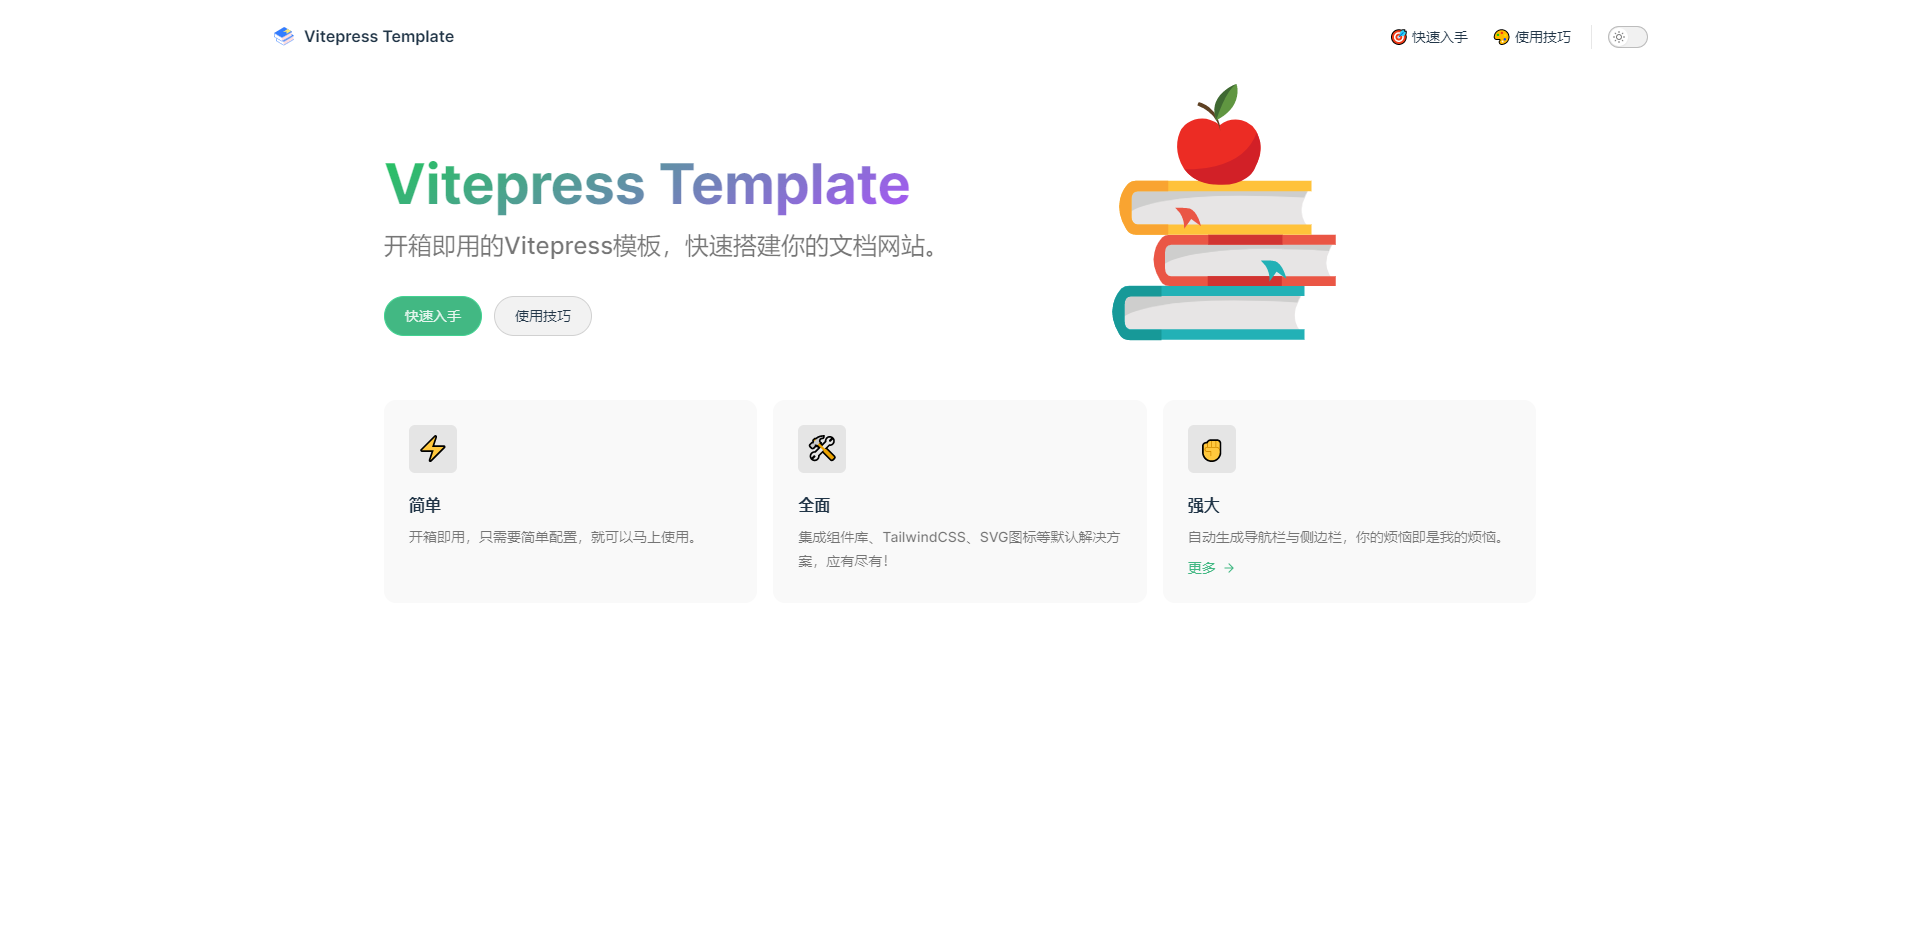
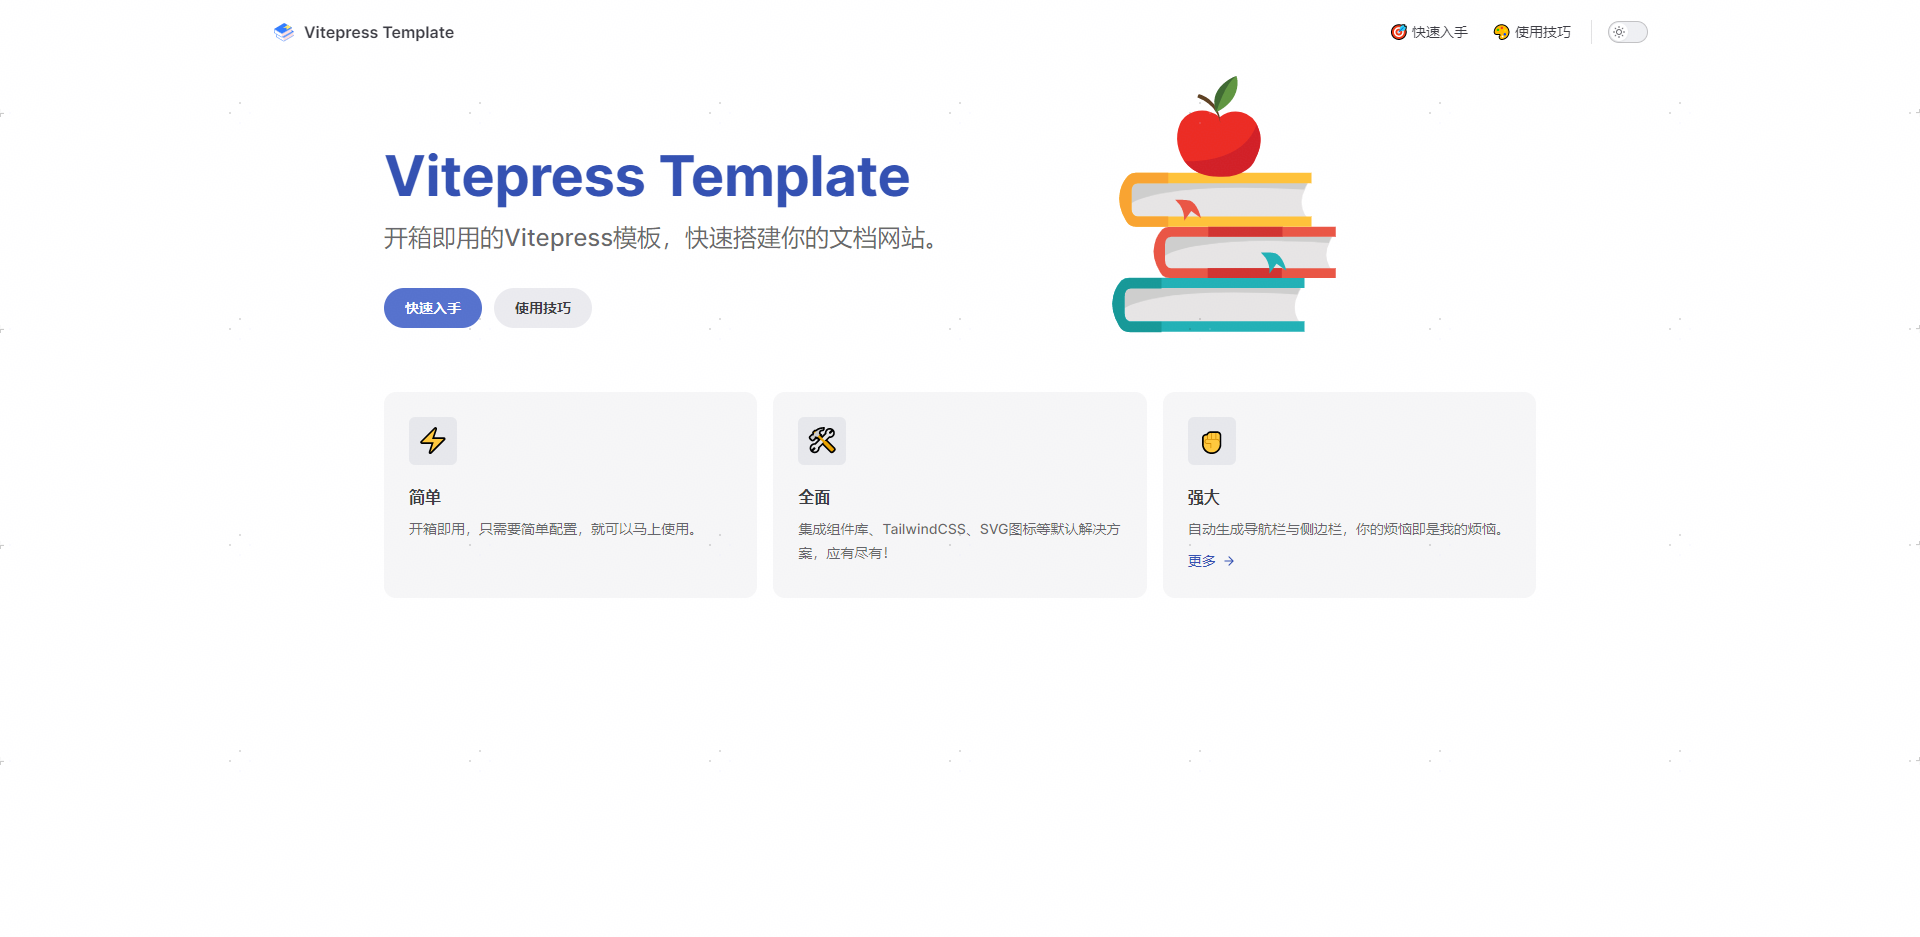
feat: update vitepress version

diff --git a/docs/.vitepress/styles/index.css b/docs/.vitepress/styles/index.css
@@ -1,6 +1,6 @@
 @import "./tailwindcss.css";
 
 :root {
-  --vp-home-hero-name-color: transparent;
-  --vp-home-hero-name-background: -webkit-linear-gradient(120deg, theme('colors.purple.500'), theme('colors.green.500'));
+  /* --vp-home-hero-name-color: transparent;
+  --vp-home-hero-name-background: -webkit-linear-gradient(120deg, theme('colors.purple.500'), theme('colors.green.500')); */
 }

diff --git a/docs/.vitepress/components/index.ts b/docs/.vitepress/components/index.ts
@@ -1,6 +1,6 @@
 import { App } from 'vue'
 
-const modules = import.meta.globEager('./**/*.vue')
+const modules = import.meta.glob('./**/*.vue', { eager: true })
 
 function getComponentName(path: string) {
   const re = new RegExp(/^\.\/(.*)?\.vue$/g)

diff --git a/docs/start.md b/docs/start.md
@@ -1,50 +1,1 @@
-# vitepress-template
-
-vitepress模板
-
-在线演示：[https://vitepress.zhengxiaoping.xyz/](https://vitepress.zhengxiaoping.xyz/)
-
-## 👁 预览
-
-![](./preview.png)
-# 快速入手
-
-## 🚀 特性
-
-- 默认配置(logo/目录)
-- 自动生成导航栏与侧边栏
-- 组件库：element-plus
-- 原子化CSS：TailwindCSS
-- SVG图标（自动拉取iconfont）
-- 组件自动注册
-- 自定义vite配置
-- 全局布局自定义
-- 返回顶部
-- 图片缩放
-- 支持在Chrome中安装应用
-
-## ✈ 下载并使用
-
-**下载**
-
-```bash
-git clone https://github.com/shoppingzh/vitepress-template.git
-```
-
-**使用时，请对以下内容进行修改：**
-
-- 修改 `package.json`，重写 `name` / `version` / `description` / `repository` / `author` 等字段
-- 打开 `docs/.vitepess/config.ts`，修改：
-  - `title`：网站标题
-  - `nav` / `sidebar`：导航栏与侧边栏
-- 替换 `docs/public/logo.svg` 文件
-- 重写 `docs/index.md`，设计自己的首页
-- 根据需要删除无用文档，新增自己的文档
-- 修改 `docs/public/manifest.webmanifest` 配置
-
-## 升级记录
-
-- 优化图片插件触发时机（2023-07-07）
-  - 升级vitepress至1.0.0-beta.5版本
-  - 优化medium-zoom的触发时机，从路由变化改为调用 `onContentUpdated` 钩子
-
+<!-- @include: ../README.md -->

diff --git a/README.md b/README.md
@@ -1,13 +1,9 @@
 # vitepress-template
-
-vitepress模板
-
 在线演示：[https://vitepress.zhengxiaoping.xyz/](https://vitepress.zhengxiaoping.xyz/)
 
 ## 👁 预览
 
 ![](./preview.png)
-# 快速入手
 
 ## 🚀 特性
 
@@ -34,7 +30,7 @@ git clone https://github.com/shoppingzh/vitepress-template.git
 **使用时，请对以下内容进行修改：**
 
 - 修改 `package.json`，重写 `name` / `version` / `description` / `repository` / `author` 等字段
-- 打开 `docs/.vitepess/config.ts`，修改：
+- 打开 `docs/.vitepess/config.mts`，修改：
   - `title`：网站标题
   - `nav` / `sidebar`：导航栏与侧边栏
 - 替换 `docs/public/logo.svg` 文件
@@ -44,6 +40,8 @@ git clone https://github.com/shoppingzh/vitepress-template.git
 
 ## 升级记录
 
-- 2023-07-07 优化图片插件触发时机
+- 2023/07/07 优化图片插件触发时机
   - 升级vitepress至1.0.0-beta.5版本
   - 优化medium-zoom的触发时机，从路由变化改为调用 `onContentUpdated` 钩子
+- 2024/01/15
+  - 升级Vitepress版本(1.0.0-rc.37)
